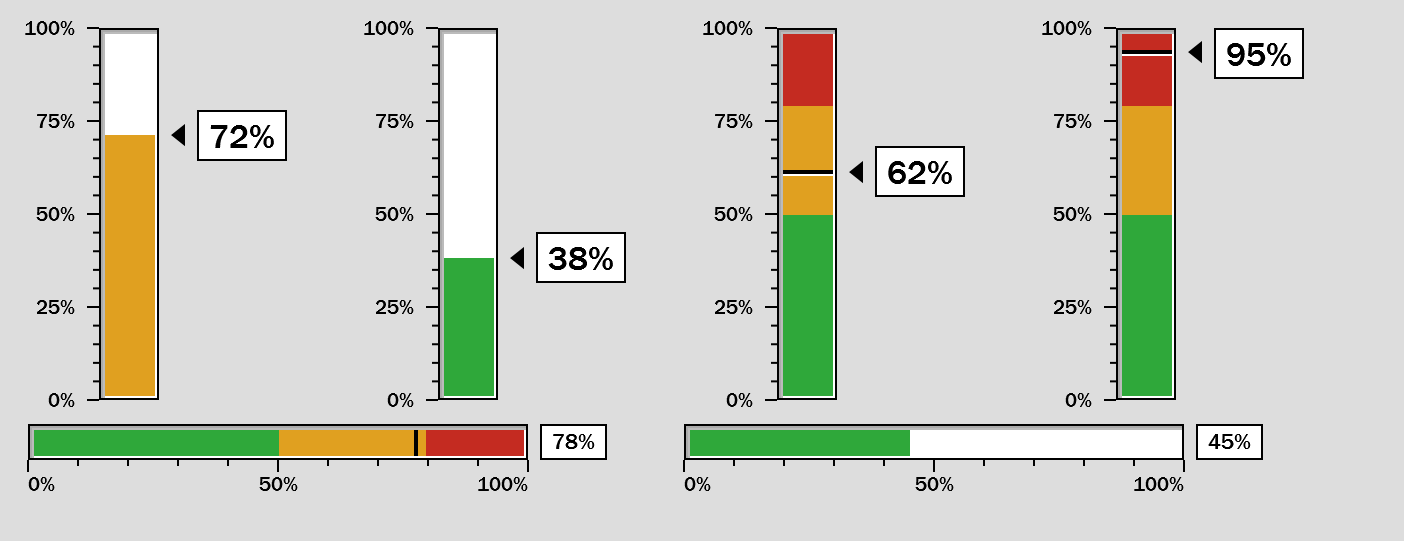
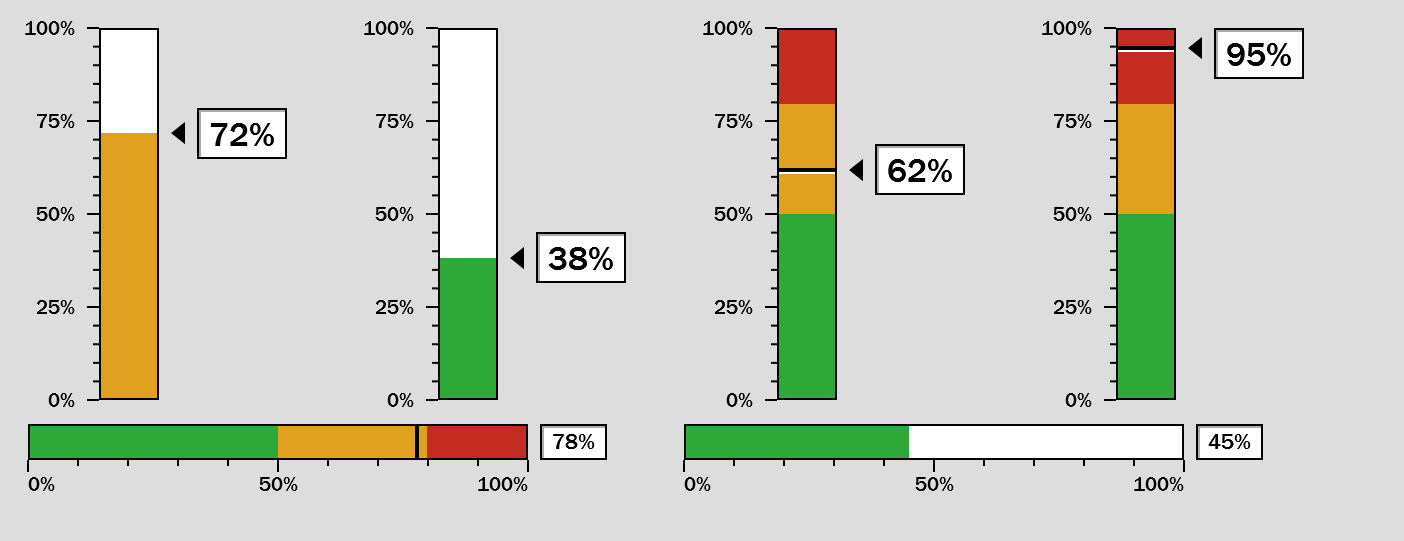
Quita el rehundido del carril y se lo deja a la cifra
El carril va sin sombra interior. En un campo de texto el rehundido invita
a escribir dentro; en un medidor nadie escribe, y los dos tonos le comían
cuatro píxeles de área de color a cada lado sin decir nada.

La caja de la cifra sí lo conserva: es un registro y se lee mejor como
campo. De un solo tono y no de dos, porque mide lo que el carril de alto y
dos se comerían la mitad.

El hueco interior se calcula ahora de lo que de verdad se dibuja. Con la
resta fija, quitar la sombra habría dejado una franja del color de fondo
justo donde estaba.

Medido en el mismo corte. El carril pasó de marco, AAAAAA, BBBBBB,
relleno a marco, relleno. La caja pasó de marco, blanco a marco, AAAAAA,
blanco.

diff --git a/src/MacOS9.Platinum/Themes/LevelGauge.xaml b/src/MacOS9.Platinum/Themes/LevelGauge.xaml
@@ -9,16 +9,21 @@
 
     <!-- Medidor de nivel. El estilo solo pone tintas y tipografía: el dibujo va en  -->
     <!-- el control, porque cada filo y cada marca se calculan sobre el píxel físico. -->
-    <!-- El carril usa el mismo pozo rehundido del campo de texto, así que un medidor -->
-    <!-- y un campo puestos uno al lado del otro se leen como piezas de la misma       -->
-    <!-- ventana y no de dos temas distintos.                                          -->
+    <!--                                                                              -->
+    <!-- El carril va sin sombra interior, a diferencia del campo de texto. En un      -->
+    <!-- campo el rehundido invita a escribir dentro; en un medidor nadie escribe, y   -->
+    <!-- los dos tonos le comían cuatro píxeles al área de color sin aportar nada.     -->
+    <!-- Las propiedades siguen ahí para quien quiera el pozo completo.                -->
     <Style TargetType="{x:Type controls:PlatinumLevelGauge}">
         <Setter Property="Foreground" Value="{StaticResource TextBrush}" />
         <Setter Property="Background" Value="{StaticResource ContentFaceBrush}" />
         <Setter Property="BorderBrush" Value="{StaticResource TextBrush}" />
-        <Setter Property="WellShadowBrush" Value="{StaticResource WellShadowBrush}" />
-        <Setter Property="WellShadowDeepBrush" Value="{StaticResource BevelShadowBrush}" />
-        <Setter Property="WellHighlightBrush" Value="{StaticResource BevelHighlightBrush}" />
+
+        <!-- La caja de la cifra sí va rehundida: es un registro y se lee mejor    -->
+        <!-- como campo. De un tono, no de dos: mide lo que el carril de alto y    -->
+        <!-- dos se comerían la mitad.                                             -->
+        <Setter Property="ReadoutShadowBrush" Value="{StaticResource BevelShadowBrush}" />
+        <Setter Property="ReadoutHighlightBrush" Value="{StaticResource BevelHighlightBrush}" />
         <Setter Property="FontFamily" Value="{StaticResource ViewFontFamily}" />
         <Setter Property="FontSize" Value="{StaticResource SmallFontSize}" />
         <Setter Property="SnapsToDevicePixels" Value="True" />

diff --git a/src/MacOS9.Platinum/Controls/PlatinumLevelGauge.cs b/src/MacOS9.Platinum/Controls/PlatinumLevelGauge.cs
@@ -305,6 +305,37 @@ public class PlatinumLevelGauge : FrameworkElement
         set => SetValue(WellHighlightBrushProperty, value);
     }
 
+    public static readonly DependencyProperty ReadoutShadowBrushProperty =
+        DependencyProperty.Register(nameof(ReadoutShadowBrush), typeof(Brush), typeof(PlatinumLevelGauge),
+            new FrameworkPropertyMetadata(null, FrameworkPropertyMetadataOptions.AffectsRender));
+
+    /// <summary>
+    /// Sombra interior de la caja de la cifra, arriba y a la izquierda.
+    /// </summary>
+    /// <remarks>
+    /// Va aparte de la del carril porque las dos piezas no piden lo mismo: la caja
+    /// es un registro y se lee mejor rehundida como un campo, y el carril es una
+    /// superficie de color a la que la sombra solo le quita área.
+    ///
+    /// De un solo tono y no de dos como el campo de texto: la caja mide lo que el
+    /// carril de alto, y dos tonos se comerían la mitad.
+    /// </remarks>
+    public Brush? ReadoutShadowBrush
+    {
+        get => (Brush?)GetValue(ReadoutShadowBrushProperty);
+        set => SetValue(ReadoutShadowBrushProperty, value);
+    }
+
+    public static readonly DependencyProperty ReadoutHighlightBrushProperty =
+        DependencyProperty.Register(nameof(ReadoutHighlightBrush), typeof(Brush), typeof(PlatinumLevelGauge),
+            new FrameworkPropertyMetadata(null, FrameworkPropertyMetadataOptions.AffectsRender));
+
+    public Brush? ReadoutHighlightBrush
+    {
+        get => (Brush?)GetValue(ReadoutHighlightBrushProperty);
+        set => SetValue(ReadoutHighlightBrushProperty, value);
+    }
+
     public static readonly DependencyProperty FontFamilyProperty =
         TextElement.FontFamilyProperty.AddOwner(typeof(PlatinumLevelGauge));
 
@@ -504,8 +535,7 @@ public class PlatinumLevelGauge : FrameworkElement
             Math.Min(carril.Bottom - cajaAlto, y - (cajaAlto / 2))), pixel);
 
         var caja = new Rect(cajaX, cajaY, cajaAncho, cajaAlto);
-        dc.DrawRectangle(Background, null, caja);
-        Marco(dc, caja, grosor);
+        CajaCifra(dc, caja, grosor);
         dc.DrawText(cifra, new Point(cajaX + Aire, cajaY + (Aire / 2)));
     }
 
@@ -555,15 +585,48 @@ public class PlatinumLevelGauge : FrameworkElement
     }
 
     /// <summary>
-    /// El área que queda para pintar el nivel. No es simétrica: arriba y a la
-    /// izquierda hay marco más dos de sombra, y abajo y a la derecha marco más uno
-    /// de realce. Es la misma asimetría del campo de texto.
+    /// El área que queda para pintar el nivel. El hueco sale de lo que de verdad se
+    /// dibuja: si no hay sombra interior, el relleno arranca pegado al marco en vez
+    /// de dejar una franja del color de fondo donde estaba la sombra.
     /// </summary>
-    private static Rect Interior(Rect carril, double grosor) => new(
-        carril.X + (grosor * 3),
-        carril.Y + (grosor * 3),
-        carril.Width - (grosor * 5),
-        carril.Height - (grosor * 5));
+    private Rect Interior(Rect carril, double grosor)
+    {
+        double arriba = grosor + (WellShadowBrush is null && WellShadowDeepBrush is null ? 0 : grosor * 2);
+        double abajo = grosor + (WellHighlightBrush is null ? 0 : grosor);
+
+        return new Rect(
+            carril.X + arriba,
+            carril.Y + arriba,
+            carril.Width - arriba - abajo,
+            carril.Height - arriba - abajo);
+    }
+
+    /// <summary>
+    /// La caja de la cifra: fondo, marco y su propio rehundido de un tono.
+    /// </summary>
+    private void CajaCifra(DrawingContext dc, Rect caja, double grosor)
+    {
+        dc.DrawRectangle(Background, null, caja);
+        Marco(dc, caja, grosor);
+
+        if (ReadoutHighlightBrush is not null)
+        {
+            dc.DrawRectangle(ReadoutHighlightBrush, null,
+                new Rect(caja.X + grosor, caja.Bottom - (grosor * 2),
+                    caja.Width - (grosor * 2), grosor));
+            dc.DrawRectangle(ReadoutHighlightBrush, null,
+                new Rect(caja.Right - (grosor * 2), caja.Y + grosor,
+                    grosor, caja.Height - (grosor * 2)));
+        }
+
+        if (ReadoutShadowBrush is not null)
+        {
+            dc.DrawRectangle(ReadoutShadowBrush, null,
+                new Rect(caja.X + grosor, caja.Y + grosor, caja.Width - (grosor * 2), grosor));
+            dc.DrawRectangle(ReadoutShadowBrush, null,
+                new Rect(caja.X + grosor, caja.Y + grosor, grosor, caja.Height - (grosor * 2)));
+        }
+    }
 
     private void Marco(DrawingContext dc, Rect caja, double grosor)
     {
@@ -638,8 +701,7 @@ public class PlatinumLevelGauge : FrameworkElement
             Cuadrar(cifra.Width + (Aire * 2), pixel),
             carril.Height);
 
-        dc.DrawRectangle(Background, null, caja);
-        Marco(dc, caja, grosor);
+        CajaCifra(dc, caja, grosor);
         dc.DrawText(cifra, new Point(
             caja.X + Aire,
             Cuadrar(caja.Y + ((caja.Height - cifra.Height) / 2), pixel)));
